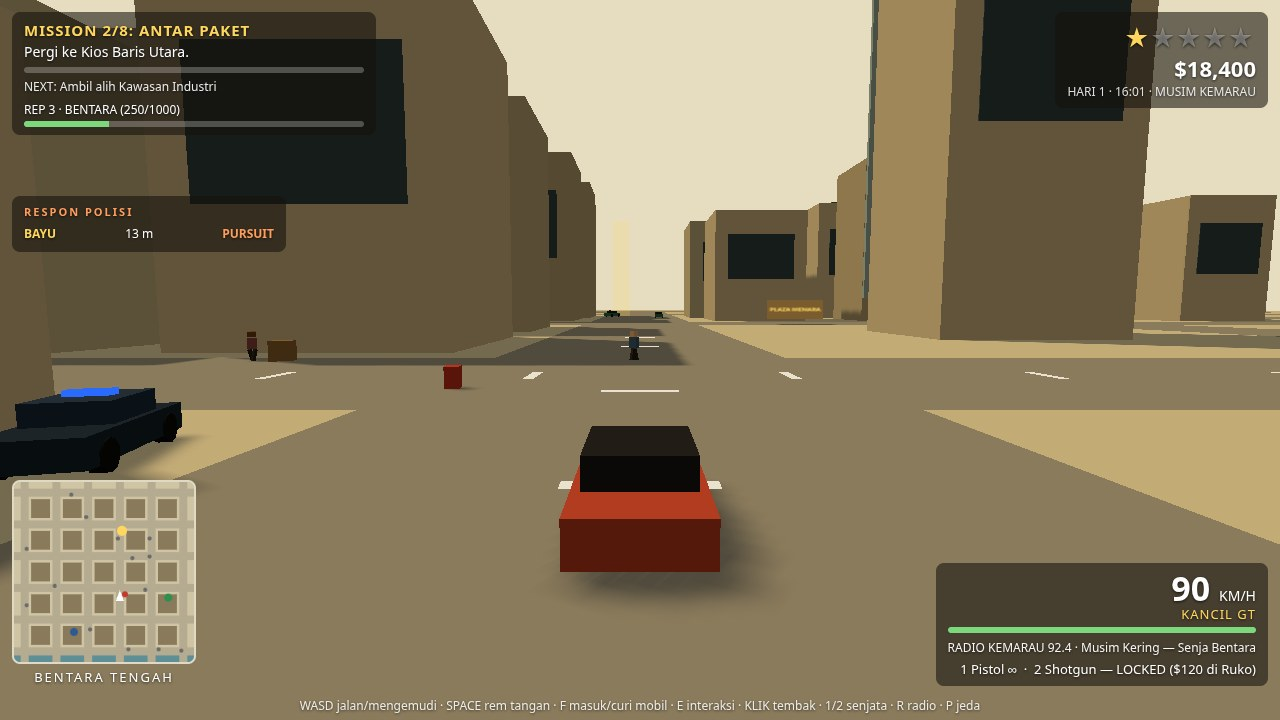
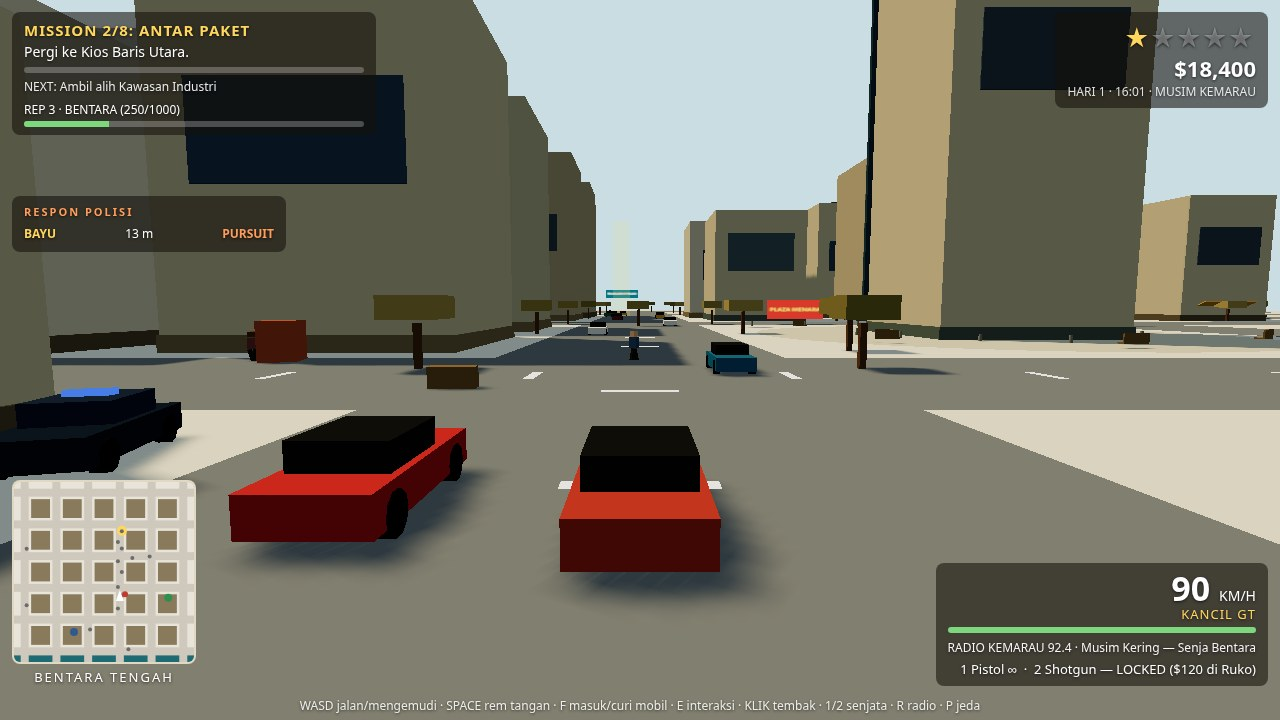
BENTARA visual polish (v1.1): palette/contrast, world density, IP sweep
- Palette: pale-blue sky 0xc9dde3, deep-teal water 0x1f6b74, light
  concrete 0xe8e4da, cool-grey roads, brick-red signage 0xc0392b;
  ACES tone mapping, exposure 1.15, hemisphere 1.05.
- Density: dry-season trees, benches, bollards, plaza disc, window
  variation (capped bands, 3 glass tones), trim plinths, awnings,
  3 new signs (PASAR PAGI, BENGKEL LAS, APOTEK), 2 marina boats;
  bench + planter breakable props; 8 traffic cars staged onto the
  drive-shot arterial.
- IP sweep: internal mode 'busted' -> 'caught'; no GTA/Rockstar/
  Vice City/Leonida/Starfish/Wasted strings remain.
- Re-shot all 4 screenshots at 1280x720, deterministic; verified
  headless: 0 console errors, 0 external requests, all 8 missions
  advance end-to-end, live play works; kit check 4 passed.

diff --git a/game/src/world.js b/game/src/world.js
@@ -42,14 +42,18 @@ export function createView(canvas, city) {
   renderer.setPixelRatio(1);
   renderer.shadowMap.enabled = true;
   renderer.shadowMap.type = THREE.PCFSoftShadowMap;
+  // Filmic tone mapping + a lifted exposure: the bleached-concrete palette
+  // reads as hard 4pm sun instead of a flat beige wash.
+  renderer.toneMapping = THREE.ACESFilmicToneMapping;
+  renderer.toneMappingExposure = 1.15;
   const scene = new THREE.Scene();
-  scene.background = new THREE.Color(0xe6ddc0);
+  scene.background = new THREE.Color(PALETTE.sky);
   scene.fog = new THREE.Fog(PALETTE.haze, 280, 560);
   scene.userData.city = city;
 
   const camera = new THREE.PerspectiveCamera(62, 1280 / 720, 0.1, 1200);
 
-  const hemi = new THREE.HemisphereLight(0xf2ead2, 0x8a7a5c, 1.05);
+  const hemi = new THREE.HemisphereLight(PALETTE.sky, 0x8d9296, 1.05);
   scene.add(hemi);
   const sun = new THREE.DirectionalLight(0xffe6b0, 2.4);
   sun.position.set(SUN.x, SUN.y, SUN.z);
@@ -143,18 +147,57 @@ export function createView(canvas, city) {
 
   // Window bands: one dark glass strip on each building's two long faces,
   // a second instanced mesh so the facades stop reading as blank concrete.
+  // Band height, height on the facade and glass tone vary per building
+  // (hashed from its position, so the variation is deterministic).
+  const hash2 = (x, z) => {
+    const h = Math.sin(x * 127.1 + z * 311.7) * 43758.5453;
+    return h - Math.floor(h);
+  };
   const winGeo = new THREE.BoxGeometry(1, 1, 1);
-  const winMat = new THREE.MeshLambertMaterial({ color: 0x3a4a52 });
+  const winMat = new THREE.MeshLambertMaterial({ color: 0xffffff });
   const winMesh = new THREE.InstancedMesh(winGeo, winMat, city.buildings.length * 2);
   city.buildings.forEach((b, i) => {
-    const bandH = Math.max(1.5, b.h * 0.4);
-    const bandY = b.h * 0.58;
+    const bandH = Math.min(7, Math.max(1.5, b.h * (0.3 + hash2(b.x, b.z) * 0.2)));
+    const bandY = b.h * (0.5 + hash2(b.z, b.x) * 0.15);
+    const tone = PALETTE.glassAlt[Math.floor(hash2(b.x + 7, b.z + 3) * PALETTE.glassAlt.length)];
     m4.compose(new THREE.Vector3(b.x, bandY, b.z + b.d / 2 + 0.07), new THREE.Quaternion(), new THREE.Vector3(b.w * 0.72, bandH, 0.12));
     winMesh.setMatrixAt(i * 2, m4);
+    winMesh.setColorAt(i * 2, col.setHex(tone));
     m4.compose(new THREE.Vector3(b.x, bandY, b.z - b.d / 2 - 0.07), new THREE.Quaternion(), new THREE.Vector3(b.w * 0.72, bandH, 0.12));
     winMesh.setMatrixAt(i * 2 + 1, m4);
+    winMesh.setColorAt(i * 2 + 1, col.setHex(tone));
   });
   scene.add(winMesh);
+
+  // Ground-floor plinth in each building's own trim colour: the base of
+  // every facade gets a darker band so the boxes sit on the street.
+  const plinthMesh = new THREE.InstancedMesh(boxGeo, new THREE.MeshLambertMaterial({ color: 0xffffff }), city.buildings.length);
+  city.buildings.forEach((b, i) => {
+    m4.compose(new THREE.Vector3(b.x, 0.6, b.z), new THREE.Quaternion(), new THREE.Vector3(b.w + 0.3, 1.2, b.d + 0.3));
+    plinthMesh.setMatrixAt(i, m4);
+    plinthMesh.setColorAt(i, col.setHex(b.trim));
+  });
+  plinthMesh.receiveShadow = true;
+  scene.add(plinthMesh);
+
+  // Awnings over the ground floor: brick-red, deep teal or ochre, sloped
+  // toward the street. About two in three buildings get one, front or back.
+  const awnings = [];
+  for (const b of city.buildings) {
+    const r = hash2(b.x + 11, b.z + 5);
+    if (r < 0.33) continue;
+    const front = hash2(b.x + 23, b.z + 9) < 0.5;
+    awnings.push({ x: b.x, y: 3.4, z: b.z + (front ? b.d / 2 + 0.7 : -b.d / 2 - 0.7), w: Math.min(b.w * 0.6, 10), tilt: front ? -0.45 : 0.45, color: PALETTE.awning[Math.floor(hash2(b.x + 31, b.z + 17) * PALETTE.awning.length)] });
+  }
+  const awnMesh = new THREE.InstancedMesh(new THREE.BoxGeometry(1, 1, 1), new THREE.MeshLambertMaterial({ color: 0xffffff }), Math.max(1, awnings.length));
+  awnings.forEach((a, i) => {
+    const tiltQ = new THREE.Quaternion().setFromEuler(new THREE.Euler(a.tilt, 0, 0));
+    m4.compose(new THREE.Vector3(a.x, a.y, a.z), tiltQ, new THREE.Vector3(a.w, 0.18, 1.6));
+    awnMesh.setMatrixAt(i, m4);
+    awnMesh.setColorAt(i, col.setHex(a.color));
+  });
+  awnMesh.castShadow = true;
+  scene.add(awnMesh);
 
   // Rooftop trim boxes on the tall buildings, and glass strips on the tower.
   const trimMat = new THREE.MeshLambertMaterial({ color: 0x6b5f4a });
@@ -173,30 +216,144 @@ export function createView(canvas, city) {
   scene.add(glass);
 
   // Signs with real names, big enough to read at thumbnail size.
-  const signBentara = textSign('BENTARA', 14, 3.2, '#7a5c2e', '#ffd75e');
+  // Brick-red is the one warm accent; the marina sign stays deep teal.
+  const signBentara = textSign('BENTARA', 14, 3.2, '#c0392b', '#ffd75e');
   signBentara.position.set(0, 46, 9.6);
   scene.add(signBentara);
   const signRuko = textSign('RUKO', 10, 2.4, '#3f5a78', '#ffffff');
   signRuko.position.set(-70, 12, -128);
   scene.add(signRuko);
-  const signMarina = textSign('MARINA', 12, 2.6, '#5e8f96', '#ffffff');
+  const signMarina = textSign('MARINA', 12, 2.6, '#2f3e46', '#ffffff');
   signMarina.position.set(-6, 9, -178);
   scene.add(signMarina);
   // Low plaza billboard, readable from the ground at the foot-shot distance.
   // It faces south (toward the player approaching from the plaza's south edge).
-  const signPlaza = textSign('PLAZA MENARA', 9, 3, '#7a5c2e', '#ffd75e');
+  const signPlaza = textSign('PLAZA MENARA', 9, 3, '#c0392b', '#ffd75e');
   signPlaza.position.set(12, 2.4, 32);
   signPlaza.rotation.y = Math.PI;
   scene.add(signPlaza);
+  // More legible street signage, all facing the road so a driver reads them.
+  const signPasar = textSign('PASAR PAGI', 9, 2.2, '#1f6b74', '#ffffff');
+  signPasar.position.set(42, 6, 102);
+  signPasar.rotation.y = Math.PI;
+  scene.add(signPasar);
+  const signBengkel = textSign('BENGKEL LAS', 9, 2.2, '#c0392b', '#ffd75e');
+  signBengkel.position.set(120, 6, 78);
+  signBengkel.rotation.y = Math.PI;
+  scene.add(signBengkel);
+  const signApotek = textSign('APOTEK', 8, 2.2, '#3f5a78', '#ffffff');
+  signApotek.position.set(-37, 6, -100);
+  signApotek.rotation.y = Math.PI;
+  scene.add(signApotek);
+
+  // Two moored boats on the marina water, so the story shot has life
+  // beyond the pier planks.
+  const boatHullMat = new THREE.MeshLambertMaterial({ color: 0xc0392b });
+  const boatHull2Mat = new THREE.MeshLambertMaterial({ color: 0xd8a13a });
+  const boatCabinMat = new THREE.MeshLambertMaterial({ color: 0xe8e4da });
+  for (const [bx, bz, hullMat, rot] of [[-40, -232, boatHullMat, 0.3], [30, -242, boatHull2Mat, -0.4]]) {
+    const hull = new THREE.Mesh(new THREE.BoxGeometry(7, 1.1, 2.6), hullMat);
+    hull.position.set(bx, 0.55, bz);
+    hull.rotation.y = rot;
+    hull.castShadow = true;
+    const cabin = new THREE.Mesh(new THREE.BoxGeometry(2.6, 1.1, 1.8), boatCabinMat);
+    cabin.position.set(bx - Math.sin(rot) * 0.8, 1.6, bz - Math.cos(rot) * 0.8);
+    cabin.rotation.y = rot;
+    scene.add(hull, cabin);
+  }
 
   // Distant skyline: flat silhouettes beyond the city so the horizon is a city.
-  const skyMat = new THREE.MeshLambertMaterial({ color: 0xb0a488 });
+  const skyMat = new THREE.MeshLambertMaterial({ color: PALETTE.skyline });
   const skyline = [[-260, -320, 60, 90], [-120, -330, 80, 70], [40, -330, 55, 110], [180, -320, 70, 80], [300, -300, 60, 95], [-320, 100, 55, 80], [320, 120, 60, 70]];
   for (const [x, z, w, h] of skyline) {
     const s = new THREE.Mesh(new THREE.BoxGeometry(w, h, w * 0.6), skyMat);
     s.position.set(x, h / 2, z);
     scene.add(s);
   }
+
+  // Dry-season trees (NOT palms): thin trunks, flat dusty-olive crowns,
+  // planted along the road edges where the sidewalk meets the blocks.
+  // Hashed placement, so the same seed always grows the same street.
+  const treeSpots = [];
+  const inSolid = (x, z) => city.solids.some((s) => x > s.minX - 1 && x < s.maxX + 1 && z > s.minZ - 1 && z < s.maxZ + 1);
+  for (const c of [-185, -111, -37, 37, 111, 185]) {
+    for (let a = -175; a <= 175; a += 35) {
+      for (const side of [-11.5, 11.5]) {
+        if (Math.abs(c + side) > 190) continue;
+        if (hash2(c + a, side * 13) < 0.35) continue;
+        const s1 = { x: c + side, z: a + hash2(a, c) * 8 - 4 };
+        const s2 = { x: a + hash2(a, c + 5) * 8 - 4, z: c + side };
+        if (!inSolid(s1.x, s1.z) && s1.z > -190) treeSpots.push(s1);
+        if (!inSolid(s2.x, s2.z) && s2.z > -190) treeSpots.push(s2);
+      }
+    }
+  }
+  // Plaza corners get their own four trees, clear of the tower and the beacon.
+  for (const [tx, tz] of [[-22, -22], [22, -22], [-22, 22], [22, 22]]) {
+    treeSpots.push({ x: tx, z: tz, alongX: false });
+  }
+  const trunkMesh = new THREE.InstancedMesh(
+    new THREE.BoxGeometry(0.35, 2.4, 0.35),
+    new THREE.MeshLambertMaterial({ color: PALETTE.treeTrunk }),
+    treeSpots.length,
+  );
+  const crownMesh = new THREE.InstancedMesh(
+    new THREE.BoxGeometry(1, 1, 1),
+    new THREE.MeshLambertMaterial({ color: 0xffffff }),
+    treeSpots.length,
+  );
+  treeSpots.forEach((t, i) => {
+    const s = 2.6 + hash2(t.x + 3, t.z + 7) * 1.4;
+    m4.compose(new THREE.Vector3(t.x, 1.2, t.z), new THREE.Quaternion(), new THREE.Vector3(1, 1, 1));
+    trunkMesh.setMatrixAt(i, m4);
+    m4.compose(new THREE.Vector3(t.x, 3.2, t.z), new THREE.Quaternion(), new THREE.Vector3(s, 1.2, s));
+    crownMesh.setMatrixAt(i, m4);
+    crownMesh.setColorAt(i, col.setHex(PALETTE.treeCrown[Math.floor(hash2(t.x + 9, t.z + 1) * PALETTE.treeCrown.length)]));
+  });
+  trunkMesh.castShadow = true;
+  crownMesh.castShadow = true;
+  scene.add(trunkMesh, crownMesh);
+
+  // Plaza furniture: benches facing the tower, a bollard ring around it,
+  // and a darker plaza disc so the concourse reads as a place, not a gap.
+  const plazaDisc = new THREE.Mesh(
+    new THREE.CircleGeometry(24, 32),
+    new THREE.MeshLambertMaterial({ color: 0xcfc8b8 }),
+  );
+  plazaDisc.rotation.x = -Math.PI / 2;
+  plazaDisc.position.set(0, 0.03, 0);
+  plazaDisc.receiveShadow = true;
+  scene.add(plazaDisc);
+  const benchSpots = [[-16, -14, 0.5], [16, -14, -0.5], [-16, 14, 2.6], [16, 14, -2.6], [0, -20, 0], [0, 20, Math.PI]];
+  const benchSeat = new THREE.InstancedMesh(new THREE.BoxGeometry(1, 1, 1), new THREE.MeshLambertMaterial({ color: 0x8a6a3f }), benchSpots.length);
+  const benchBack = new THREE.InstancedMesh(new THREE.BoxGeometry(1, 1, 1), new THREE.MeshLambertMaterial({ color: 0x8a6a3f }), benchSpots.length);
+  benchSpots.forEach(([bx, bz, rot], i) => {
+    const rotQ = new THREE.Quaternion().setFromEuler(new THREE.Euler(0, rot, 0));
+    m4.compose(new THREE.Vector3(bx, 0.45, bz), rotQ, new THREE.Vector3(1.9, 0.14, 0.65));
+    benchSeat.setMatrixAt(i, m4);
+    m4.compose(new THREE.Vector3(bx - Math.sin(rot) * 0.28, 0.85, bz - Math.cos(rot) * 0.28), rotQ, new THREE.Vector3(1.9, 0.7, 0.12));
+    benchBack.setMatrixAt(i, m4);
+  });
+  benchSeat.castShadow = true;
+  benchBack.castShadow = true;
+  scene.add(benchSeat, benchBack);
+  const bollardSpots = [];
+  for (let k = 0; k < 12; k += 1) {
+    const a = (k / 12) * Math.PI * 2;
+    bollardSpots.push({ x: Math.sin(a) * 13.5, z: Math.cos(a) * 13.5 });
+  }
+  for (let k = 0; k < 6; k += 1) bollardSpots.push({ x: -20 + k * 8, z: 26 });
+  const bollardMesh = new THREE.InstancedMesh(
+    new THREE.CylinderGeometry(0.15, 0.18, 0.7, 8),
+    new THREE.MeshLambertMaterial({ color: 0x8a8a80 }),
+    bollardSpots.length,
+  );
+  bollardSpots.forEach((b, i) => {
+    m4.compose(new THREE.Vector3(b.x, 0.35, b.z), new THREE.Quaternion(), new THREE.Vector3(1, 1, 1));
+    bollardMesh.setMatrixAt(i, m4);
+  });
+  bollardMesh.castShadow = true;
+  scene.add(bollardMesh);
 
   function resize(width, height) {
     renderer.setSize(width, height, false);

diff --git a/game/src/shots.js b/game/src/shots.js
@@ -50,6 +50,27 @@ export function stageShot(name, game, atSeconds) {
     G.player.car.heading = 0;
     G.player.car.speed = 26;
     G.addHeat(1);
+    // Pull traffic onto the player's arterial so the drive shot actually
+    // shows it: same-direction cars ahead in the right lane, oncoming cars
+    // in the left lane. The other cars stay scattered on the grid.
+    const arterial = [
+      { lane: 41.5, z: -80, dir: 1 }, { lane: 41.5, z: -30, dir: 1 },
+      { lane: 41.5, z: 20, dir: 1 }, { lane: 41.5, z: 70, dir: 1 },
+      { lane: 32.5, z: -55, dir: -1 }, { lane: 32.5, z: 0, dir: -1 },
+      { lane: 32.5, z: 50, dir: -1 }, { lane: 32.5, z: 100, dir: -1 },
+    ];
+    G.traffic.cars.slice(0, arterial.length).forEach((c, k) => {
+      const a = arterial[k];
+      c.axis = 'z';
+      c.lane = a.lane;
+      c.dir = a.dir;
+      c.x = a.lane;
+      c.z = a.z;
+      c.heading = a.dir > 0 ? 0 : Math.PI;
+      c.cruise = 10 + (k % 3) * 2;
+      c.speed = c.cruise;
+      c.sync();
+    });
     G.hud.toast('', 0.01);
     G.setShotInput({ active: true, up: true, down: false, left: false, right: false, brake: false, run: false, mouse: false });
     G.draw();

diff --git a/game/src/config.js b/game/src/config.js
@@ -53,19 +53,25 @@ export const WEAPONS = {
 export const SHOTGUN_SHELLS_PRICE = 40;
 
 export const PALETTE = {
-  sky: 0xdfe8ea,
-  haze: 0xe8e2cf,
-  ground: 0xc9bfa4,
-  road: 0x8f8a80,
-  roadLine: 0xe8e2cf,
-  sidewalk: 0xb5ab90,
-  building: [0xd8cdb2, 0xc4b89a, 0xbfae8e, 0xd0c4a8, 0xcfc0a0, 0xb8a98a],
+  sky: 0xc9dde3,
+  haze: 0xcfdce2,
+  ground: 0xe8e4da,
+  road: 0x7a7e83,
+  roadLine: 0xf5f2e8,
+  sidewalk: 0xcfc9bd,
+  building: [0xe8e4da, 0xd8cdb2, 0xc4b89a, 0xd0c4a8, 0xcfc0a0, 0xb8a98a],
   buildingTrim: [0x7a6a4f, 0x5f6b62, 0x8a7a5c, 0x6b5f4a],
-  glass: 0x9fb4b8,
-  water: 0x5e8f96,
-  car: [0xb8442f, 0x3f5a78, 0xd8cdb2, 0x4a4a42, 0x7a2f2f, 0x2f6b4f],
+  glass: 0x2f4a55,
+  glassAlt: [0x4a5a63, 0x42586a, 0x5d6d75],
+  water: 0x1f6b74,
+  car: [0xc0392b, 0x2f6b8a, 0xe8e4da, 0x3a3a38, 0x7a2f2f, 0x2f6b4f, 0xd8a13a, 0x4a7a3a],
   cop: 0x1d2a3a,
   beacon: 0xffd75e,
+  signRed: 0xc0392b,
+  skyline: 0x8d9aa0,
+  treeTrunk: 0x6b4a2f,
+  treeCrown: [0xa08c46, 0xb09855, 0x8a7c40],
+  awning: [0xc0392b, 0x1f6b74, 0xd8a13a],
 };
 
 export const FONT = 'system-ui, -apple-system, "Segoe UI", sans-serif';

diff --git a/game/index.html b/game/index.html
@@ -5,7 +5,7 @@
 <meta name="viewport" content="width=device-width, initial-scale=1">
 <title>BENTARA: DRY SEASON</title>
 <style>
-  html, body { margin: 0; height: 100%; overflow: hidden; background: #d8cdb4; font-family: system-ui, "Segoe UI", sans-serif; }
+  html, body { margin: 0; height: 100%; overflow: hidden; background: #c9dde3; font-family: system-ui, "Segoe UI", sans-serif; }
   #view { position: fixed; inset: 0; width: 100%; height: 100%; display: block; touch-action: none; }
   #hud { position: fixed; inset: 0; pointer-events: none; color: #fff; text-shadow: 0 1px 3px rgba(0,0,0,.7); }
   .panel { background: rgba(20,18,12,.58); border-radius: 8px; padding: 8px 12px; }

diff --git a/game/src/hud.js b/game/src/hud.js
@@ -74,12 +74,12 @@ export function createHud() {
     const s = 180 / 420;
     const px = (x) => 90 + x * s;
     const py = (z) => 90 - z * s;
-    mapCtx.fillStyle = '#cfc4a4';
+    mapCtx.fillStyle = '#e8e4da';
     mapCtx.fillRect(0, 0, 180, 180);
     // Marina water along the south edge.
-    mapCtx.fillStyle = '#5e8f96';
+    mapCtx.fillStyle = '#1f6b74';
     mapCtx.fillRect(0, py(-194), 180, 180 - py(-194));
-    mapCtx.fillStyle = '#b5ab90';
+    mapCtx.fillStyle = '#cfc9bd';
     for (const c of roadLines()) {
       mapCtx.fillRect(0, py(c) - 4, 180, 8);
       mapCtx.fillRect(px(c) - 4, 0, 8, 180);

diff --git a/game/src/props.js b/game/src/props.js
@@ -8,6 +8,8 @@ const KINDS = {
   stall: { label: 'Kios pasar', price: 40, w: 2.6, h: 2.4, d: 2.0, color: 0xb85c38 },
   hydrant: { label: 'Hidran', price: 25, w: 0.6, h: 0.9, d: 0.6, color: 0xc23b2e },
   sign: { label: 'Papan nama', price: 60, w: 2.2, h: 1.4, d: 0.25, color: 0x3f5a78 },
+  bench: { label: 'Bangku taman', price: 20, w: 1.9, h: 0.9, d: 0.65, color: 0x8a6a3f },
+  planter: { label: 'Pot tanaman', price: 10, w: 1.0, h: 0.8, d: 1.0, color: 0x9a6b4a },
 };
 
 export function createProps(scene, city, rng) {

diff --git a/game/src/main.js b/game/src/main.js
@@ -1,5 +1,5 @@
 // Boot: ?shot=heat|drive|foot|story&at=N&seed=N stages a screenshot scene;
-// otherwise the game runs its live loop with title, pause and busted screens.
+// otherwise the game runs its live loop with title, pause and caught screens.
 import { createGame } from './game.js';
 import { stageShot } from './shots.js';
 import { loadGame, hasSave } from './save.js';

diff --git a/game/src/game.js b/game/src/game.js
@@ -37,7 +37,7 @@ export function createGame(canvas, seed = 7) {
 
   const state = {
     seed, time: 0, cash: 250, rep: 0, heat: 0, day: 1,
-    mode: 'title', // title | play | paused | over | busted
+    mode: 'title', // title | play | paused | over | caught
     saveTimer: 0, seenTimer: 0, respawnTimer: 0, down: false,
     interactPressed: false,
   };
